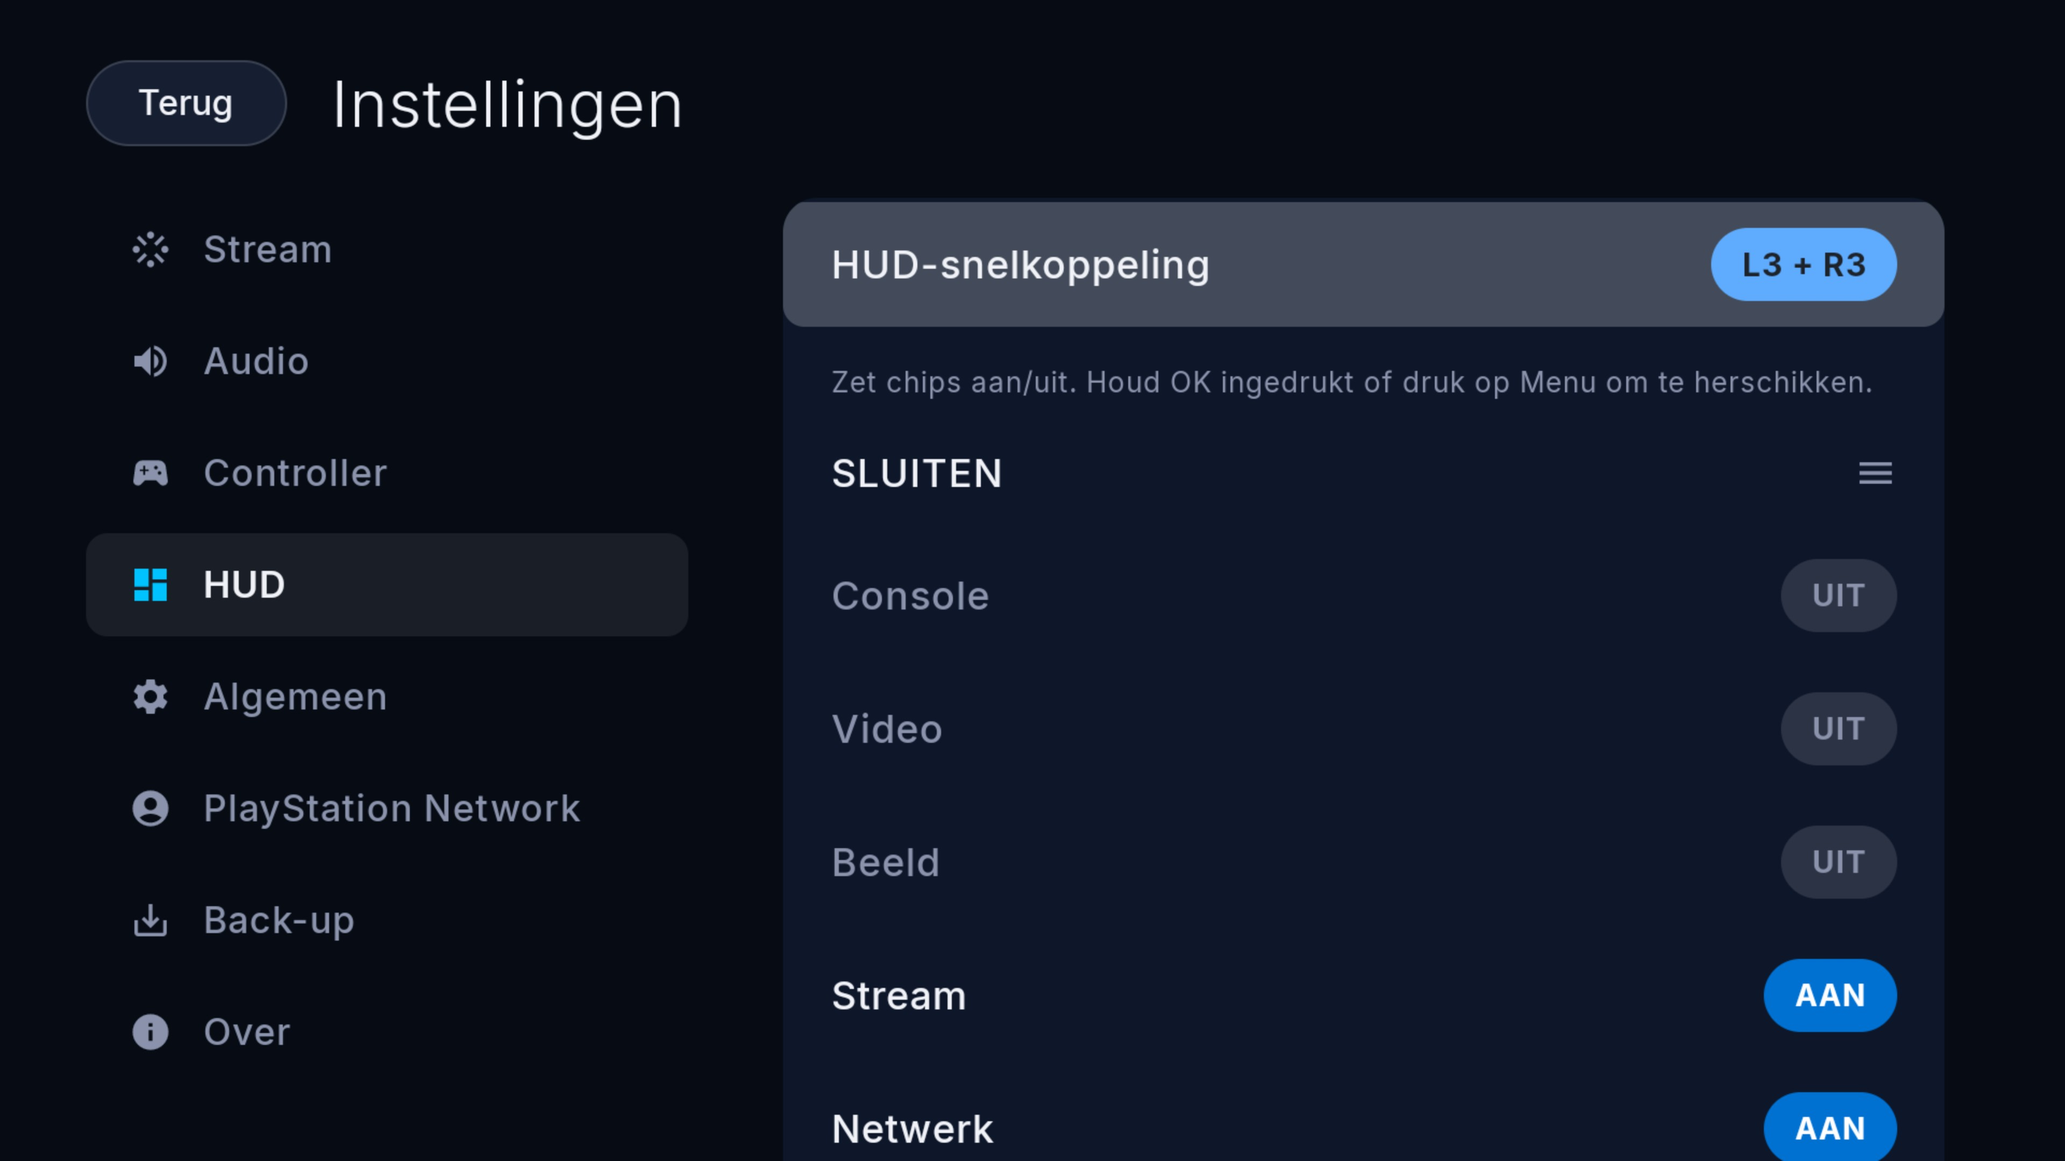
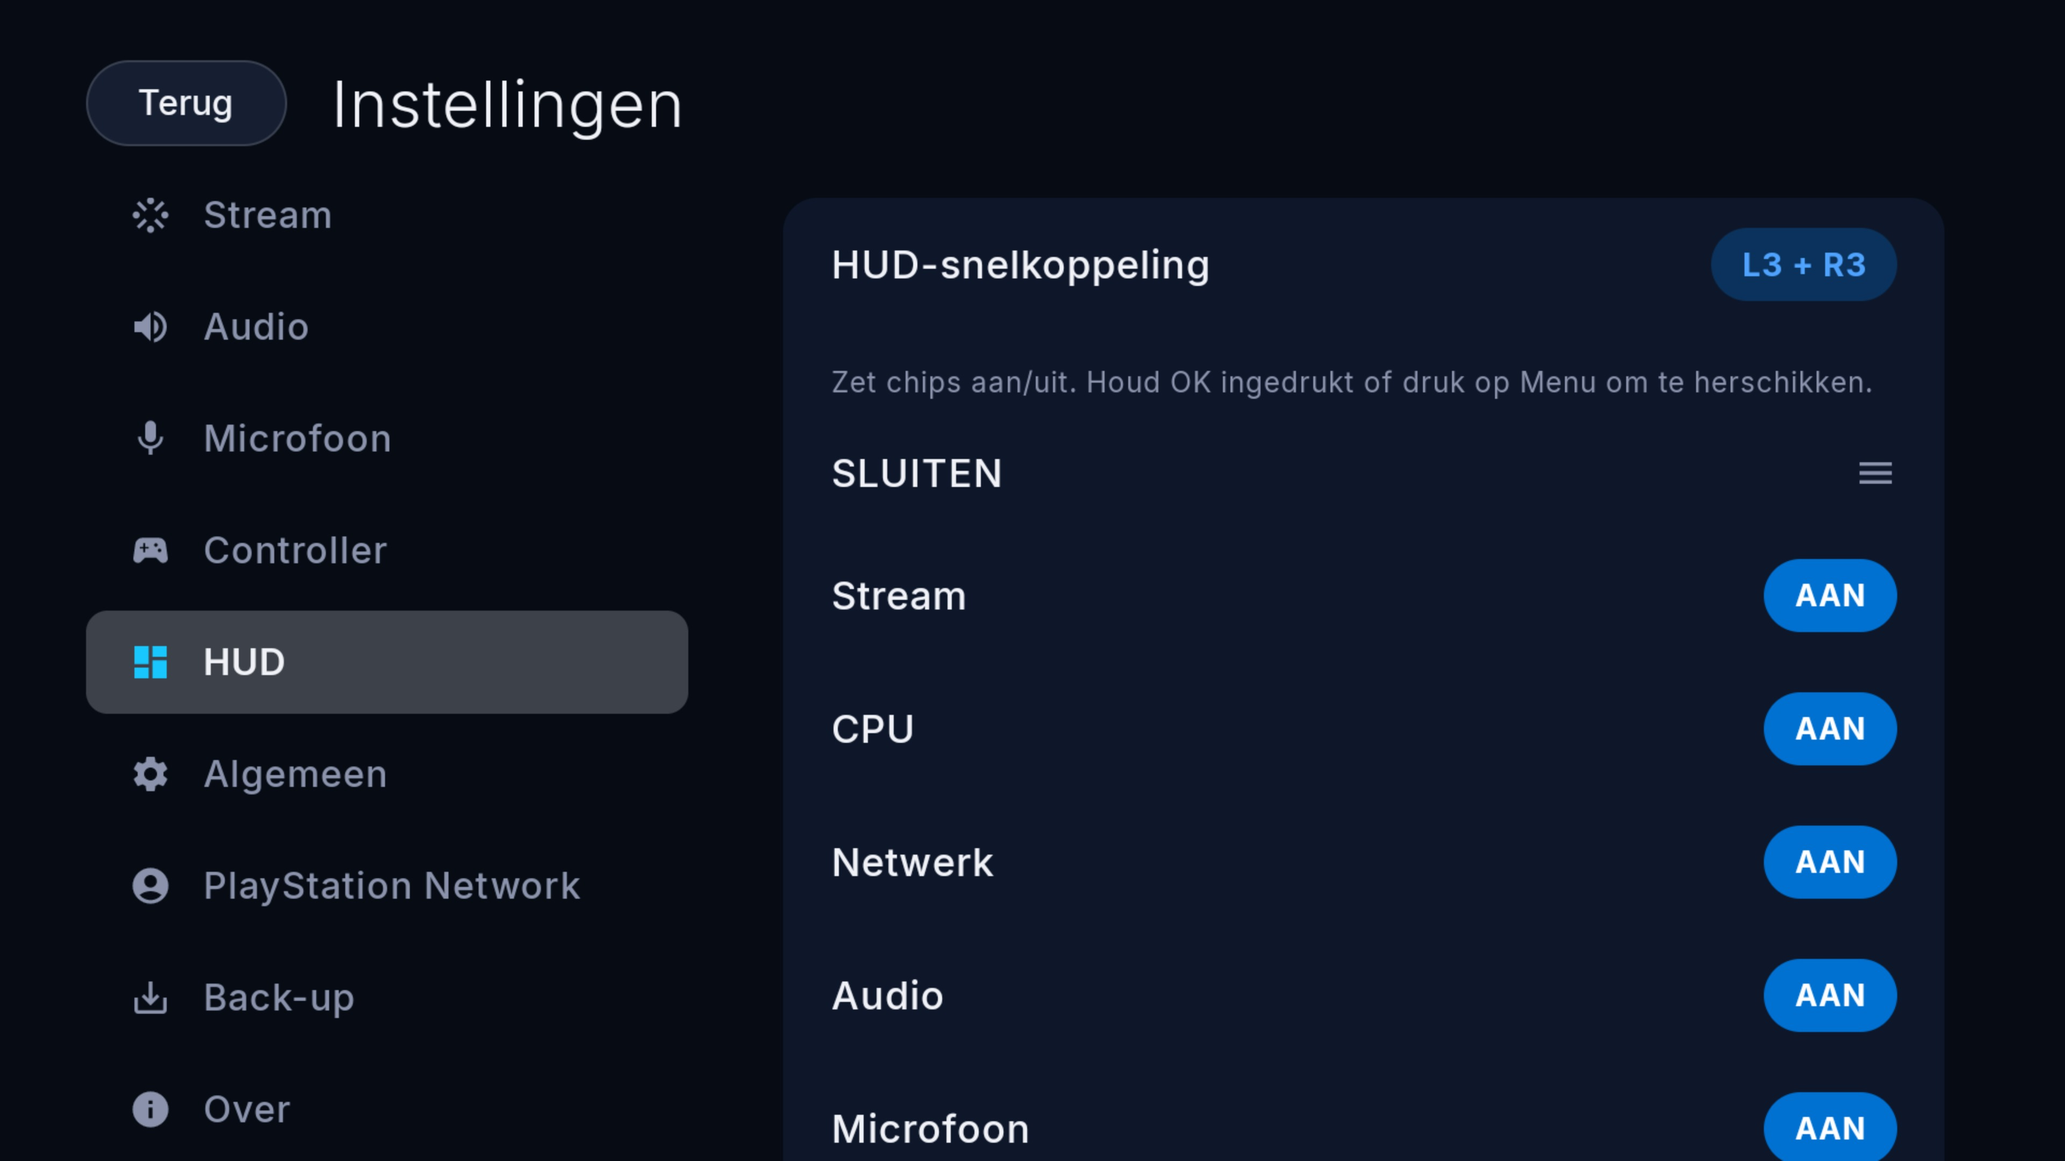
Release 1.19.0-tv: mic encoder settings, mute-toggle fix, CPU HUD core usage, HUD focus
- mic settings: opus encoder complexity (Low/Medium/High/Max) + audio bandwidth (4/6/8 kHz) presets under Settings -> Microphone, plumbed Preferences -> sessionStartMic -> opus_encoder_ctl (chiaki-jni now links opus + the FindOpus shim include dir); bitrate/bit-depth stay protocol-fixed at 32 kbps / 16-bit because audiosender.c hardcodes 40-byte frames
- mic mute: flip the mute flag in the JNI before chiaki_session_toggle_microphone because upstream ctrl.c sends it inverted (0 = unmute on the PS5)
- CPU HUD: main value is now % of total capacity and the sub shows cores used / total cores (via CpuUsageMonitor.coreCount), replacing the old % of one core + cores used
- HUD focus: retry requestFocus() on open until the selected chip's FocusRequester is attached, so D-pad navigation works immediately instead of needing a cross-press first
- strings: mic_complexity/mic_bandwidth + the cpu_sub total arg added to both values and values-nl (Dutch is a full translation)
- docs: README mic/HUD bullets, AGENTS mic tuning + four-places-for-settings + SkipNative/-Pabis gotcha, refreshed settings + stream_hud screenshots; versionCode 19 / 1.19.0-tv

diff --git a/app/src/main/java/com/chiaking/tv/ui/screens/StreamHud.kt b/app/src/main/java/com/chiaking/tv/ui/screens/StreamHud.kt
@@ -50,11 +50,12 @@ import com.chiaking.tv.ui.theme.*
 import com.metallic.chiaki.lib.Codec
 import kotlinx.coroutines.delay
 
-private data class HudStats(val fps: Double, val kbps: Double, val framesLost: Long, val packetLossPct: Double, val rttMs: Long, val cpuAppPct: Double, val cpuCores: Double)
+private data class HudStats(val fps: Double, val kbps: Double, val framesLost: Long, val packetLossPct: Double, val rttMs: Long, val cpuAppPct: Double, val cpuCores: Double, val cpuCoreCount: Int)
 
 private const val HUD_STATS_POLL_MS = 1000L
 private const val HUD_FOCUS_SETTLE_MS = 400L
 private const val HUD_FOCUS_REQUEST_MS = 50L
+private const val HUD_FOCUS_RETRY = 20
 private const val NS_PER_S = 1_000_000_000.0
 private const val BITS_PER_BYTE = 8.0
 private const val BITS_PER_KBIT = 1000.0
@@ -108,8 +109,8 @@ fun StreamHud(
 		{
 			val now = System.nanoTime()
 			val stats = session.getStats()
-			// monitor reports % of total capacity; the chip shows % of one core + cores used
-			val cpuAppPct = if(showCpu) cpuMonitor.getCpuUsage() * cpuMonitor.coreCount else 0.0
+			// monitor reports % of total capacity (0-100); chip shows that % + cores used / total
+			val cpuAppPct = if(showCpu) cpuMonitor.getCpuUsage() else 0.0
 			if(stats != null && lastStats != null && lastTime != 0L)
 			{
 				val dt = (now - lastTime) / NS_PER_S
@@ -122,7 +123,8 @@ fun StreamHud(
 						stats[3] / PACKET_LOSS_PCT_SCALE,
 						stats[4] / MICROS_PER_MS,
 						cpuAppPct,
-						cpuAppPct / 100.0
+						cpuAppPct / 100.0 * cpuMonitor.coreCount,
+						cpuMonitor.coreCount
 					)
 				}
 			}
@@ -138,9 +140,15 @@ fun StreamHud(
 		{
 			delay(HUD_FOCUS_SETTLE_MS)
 			hudFocusIdx = FocusMemory.get("hud").coerceIn(0, lastIdx)
-			delay(HUD_FOCUS_REQUEST_MS)
-			try { hudFocus.requestFocus() } catch(e: Exception)
-			{ android.util.Log.e("StreamHud", "HUD focus request failed", e) }
+			// the focusRequester is only attached to the selected chip after recomposition,
+			// so a single requestFocus can race it and silently fail — leaving no chip focused
+			// until a cross-press grabs focus. Retry until it lands so D-pad works on open.
+			repeat(HUD_FOCUS_RETRY)
+			{
+				try { hudFocus.requestFocus(); return@LaunchedEffect }
+				catch(e: Exception) { delay(HUD_FOCUS_REQUEST_MS) }
+			}
+			android.util.Log.e("StreamHud", "HUD focus request failed after $HUD_FOCUS_RETRY retries")
 		}
 	}
 
@@ -270,7 +278,7 @@ fun StreamHud(
 							i,
 							stringResource(R.string.cpu),
 							hudStats?.let { stringResource(R.string.cpu_value, it.cpuAppPct) } ?: "—",
-							hudStats?.let { stringResource(R.string.cpu_sub, it.cpuCores) } ?: ""
+							hudStats?.let { stringResource(R.string.cpu_sub, it.cpuCores, it.cpuCoreCount) } ?: ""
 						)
 						Preferences.HudItemKind.CLOSE -> chip(
 							i,

diff --git a/app/src/main/java/com/chiaking/tv/common/Preferences.kt b/app/src/main/java/com/chiaking/tv/common/Preferences.kt
@@ -45,6 +45,23 @@ class Preferences(context: Context)
 		SHOULDERS("shoulders", "L1 + R1 + L2 + R2")
 	}
 
+	// opus encoder CPU/quality presets (bitrate + bit depth are fixed by the PS5 protocol)
+	enum class MicComplexity(val value: Int, val title: String)
+	{
+		LOW(3, "Low"),
+		MEDIUM(5, "Medium"),
+		HIGH(8, "High"),
+		MAX(10, "Max")
+	}
+
+	// opus max-bandwidth constants; RESTRICTED_LOWDELAY caps at wideband (8 kHz)
+	enum class MicBandwidth(val opusValue: Int, val title: String)
+	{
+		NARROWBAND(1101, "4 kHz"),
+		MEDIUMBAND(1102, "6 kHz"),
+		WIDEBAND(1103, "8 kHz")
+	}
+
 	enum class DisplayMode(val value: String, val titleRes: Int)
 	{
 		FIT("fit", R.string.display_mode_fit),
@@ -117,6 +134,8 @@ class Preferences(context: Context)
 		const val micAecKey = "mic_aec"
 		const val micNsKey = "mic_ns"
 		const val micAgcKey = "mic_agc"
+		const val micComplexityKey = "mic_complexity"
+		const val micBandwidthKey = "mic_bandwidth"
 
 		val resolutionDefault = Resolution.RES_1080P
 		val fpsDefault = FPS.FPS_60
@@ -206,6 +225,14 @@ class Preferences(context: Context)
 	var micAgc
 		get() = sharedPreferences.getBoolean(micAgcKey, true)
 		set(value) { sharedPreferences.edit().putBoolean(micAgcKey, value).apply() }
+
+	var micComplexity
+		get() = MicComplexity.values().firstOrNull { it.value == sharedPreferences.getInt(micComplexityKey, MicComplexity.MEDIUM.value) } ?: MicComplexity.MEDIUM
+		set(value) { sharedPreferences.edit().putInt(micComplexityKey, value.value).apply() }
+
+	var micBandwidth
+		get() = MicBandwidth.values().firstOrNull { it.opusValue == sharedPreferences.getInt(micBandwidthKey, MicBandwidth.WIDEBAND.opusValue) } ?: MicBandwidth.WIDEBAND
+		set(value) { sharedPreferences.edit().putInt(micBandwidthKey, value.opusValue).apply() }
 
 	var autoConnectEnabled
 		get() = sharedPreferences.getBoolean(autoConnectEnabledKey, false)

diff --git a/app/src/main/java/com/chiaking/tv/ui/screens/SettingsScreen.kt b/app/src/main/java/com/chiaking/tv/ui/screens/SettingsScreen.kt
@@ -114,6 +114,8 @@ fun SettingsScreen(
 	var micAec by remember { mutableStateOf(preferences.micAec) }
 	var micNs by remember { mutableStateOf(preferences.micNs) }
 	var micAgc by remember { mutableStateOf(preferences.micAgc) }
+	var micComplexity by remember { mutableStateOf(preferences.micComplexity) }
+	var micBandwidth by remember { mutableStateOf(preferences.micBandwidth) }
 	val micDevices = remember { AudioDevices.inputDevices(ctx) }
 	var micDeviceIndex by remember { mutableStateOf(
 		micDevices.indexOfFirst { it.first == preferences.micDeviceName }.coerceAtLeast(0)) }
@@ -386,6 +388,26 @@ fun SettingsScreen(
 								micAgc,
 								{ micAgc = it; preferences.micAgc = it },
 								focusRequester = fr(7), onFocus = fb(7)
+							)
+							TvCycleRow(
+								title = stringResource(R.string.mic_complexity),
+								value = micComplexity.title,
+								onNext = {
+									val values = Preferences.MicComplexity.values()
+									micComplexity = values[(micComplexity.ordinal + 1) % values.size]
+									preferences.micComplexity = micComplexity
+								},
+								focusRequester = fr(8), onFocus = fb(8)
+							)
+							TvCycleRow(
+								title = stringResource(R.string.mic_bandwidth),
+								value = micBandwidth.title,
+								onNext = {
+									val values = Preferences.MicBandwidth.values()
+									micBandwidth = values[(micBandwidth.ordinal + 1) % values.size]
+									preferences.micBandwidth = micBandwidth
+								},
+								focusRequester = fr(9), onFocus = fb(9)
 							)
 						}
 					}

diff --git a/app/src/main/java/com/metallic/chiaki/lib/Chiaki.kt b/app/src/main/java/com/metallic/chiaki/lib/Chiaki.kt
@@ -101,7 +101,7 @@ private class ChiakiNative
 		@JvmStatic external fun sessionRestartAudio(ptr: Long)
 		@JvmStatic external fun sessionGotoBed(ptr: Long): Int
 		@JvmStatic external fun sessionRequestIDR(ptr: Long): Int
-		@JvmStatic external fun sessionStartMic(ptr: Long, muted: Boolean): Int
+		@JvmStatic external fun sessionStartMic(ptr: Long, muted: Boolean, complexity: Int, bandwidth: Int): Int
 		@JvmStatic external fun sessionFeedMicFrame(ptr: Long, pcm: ShortArray)
 		@JvmStatic external fun sessionToggleMicrophone(ptr: Long, muted: Boolean): Int
 		@JvmStatic external fun sessionGetStats(ptr: Long, out: LongArray)
@@ -494,9 +494,9 @@ class Session(connectInfo: ConnectInfo, logFile: String?, logVerbose: Boolean)
 		return ChiakiNative.sessionRequestIDR(nativePtr)
 	}
 
-	fun startMic(muted: Boolean): Int
+	fun startMic(muted: Boolean, complexity: Int = 5, bandwidth: Int = 1103): Int
 	{
-		return ChiakiNative.sessionStartMic(nativePtr, muted)
+		return ChiakiNative.sessionStartMic(nativePtr, muted, complexity, bandwidth)
 	}
 
 	fun feedMicFrame(pcm: ShortArray)

diff --git a/app/src/main/java/com/chiaking/tv/session/StreamSession.kt b/app/src/main/java/com/chiaking/tv/session/StreamSession.kt
@@ -101,7 +101,7 @@ class StreamSession(val connectInfo: ConnectInfo, val logManager: LogManager, va
 		if(capture.start())
 		{
 			micCapture = capture
-			session.startMic(_micMuted.value)
+			session.startMic(_micMuted.value, input.preferences.micComplexity.value, input.preferences.micBandwidth.opusValue)
 			_micActive.value = true
 		}
 	}

diff --git a/native/jni/chiaki-jni.c b/native/jni/chiaki-jni.c
@@ -11,6 +11,9 @@
 #include <chiaki/regist.h>
 #include <chiaki/remote/holepunch.h>
 #include <chiaki/opusencoder.h>
+#if CHIAKI_LIB_ENABLE_OPUS
+#include <opus/opus.h>
+#endif
 
 #include <string.h>
 #include <stdlib.h>
@@ -566,7 +569,7 @@ JNIEXPORT jint JNICALL JNI_FCN(sessionRequestIDR)(JNIEnv *env, jobject obj, jlon
 	return chiaki_session_request_idr(&session->session);
 }
 
-JNIEXPORT jint JNICALL JNI_FCN(sessionStartMic)(JNIEnv *env, jobject obj, jlong ptr, jboolean muted)
+JNIEXPORT jint JNICALL JNI_FCN(sessionStartMic)(JNIEnv *env, jobject obj, jlong ptr, jboolean muted, jint complexity, jint bandwidth)
 {
 	AndroidChiakiSession *session = (AndroidChiakiSession *)ptr;
 #if CHIAKI_LIB_ENABLE_OPUS
@@ -581,6 +584,16 @@ JNIEXPORT jint JNICALL JNI_FCN(sessionStartMic)(JNIEnv *env, jobject obj, jlong 
 			CHIAKI_LOGE(session->log, "Failed to init mic audio sender");
 			return CHIAKI_ERR_UNKNOWN;
 		}
+		// opus defaults to complexity 10 + auto signal; for a voice channel, biasing to
+		// voice and tuning complexity/bandwidth cuts CPU with no protocol change
+		// (still 48 kHz stereo CBR 40-byte frames). Values come from the mic settings.
+		OpusEncoder *mic_enc = session->opus_encoder.opus_encoder;
+		if(mic_enc)
+		{
+			opus_encoder_ctl(mic_enc, OPUS_SET_SIGNAL(OPUS_SIGNAL_VOICE));
+			opus_encoder_ctl(mic_enc, OPUS_SET_COMPLEXITY(complexity));
+			opus_encoder_ctl(mic_enc, OPUS_SET_MAX_BANDWIDTH(bandwidth));
+		}
 		session->mic_encoder_initialized = true;
 	}
 	if(!session->mic_connected)
@@ -593,12 +606,16 @@ JNIEXPORT jint JNICALL JNI_FCN(sessionStartMic)(JNIEnv *env, jobject obj, jlong 
 		}
 		session->mic_connected = true;
 	}
-	ChiakiErrorCode err = chiaki_session_toggle_microphone(&session->session, muted);
+	// ctrl.c sends toggle[2]=0 for muted=true, but the PS5 treats 0 as UNMUTE (its log
+	// string is inverted too), so flip the flag here until upstream is corrected
+	ChiakiErrorCode err = chiaki_session_toggle_microphone(&session->session, !muted);
 	if(err != CHIAKI_ERR_SUCCESS)
 		CHIAKI_LOGE(session->log, "Failed to set initial mic mute state: %s", chiaki_error_string(err));
 	return err;
 #else
 	(void)muted;
+	(void)complexity;
+	(void)bandwidth;
 	return CHIAKI_ERR_UNKNOWN;
 #endif
 }
@@ -621,7 +638,8 @@ JNIEXPORT void JNICALL JNI_FCN(sessionFeedMicFrame)(JNIEnv *env, jobject obj, jl
 JNIEXPORT jint JNICALL JNI_FCN(sessionToggleMicrophone)(JNIEnv *env, jobject obj, jlong ptr, jboolean muted)
 {
 	AndroidChiakiSession *session = (AndroidChiakiSession *)ptr;
-	return chiaki_session_toggle_microphone(&session->session, muted);
+	// see sessionStartMic: upstream ctrl.c has the mute flag inverted
+	return chiaki_session_toggle_microphone(&session->session, !muted);
 }
 
 JNIEXPORT void JNICALL JNI_FCN(sessionGetStats)(JNIEnv *env, jobject obj, jlong ptr, jlongArray out)

diff --git a/AGENTS.md b/AGENTS.md
@@ -70,12 +70,19 @@ Never run `gradlew` directly on the host — no local Android SDK/NDK is set up.
   video **stats counters** (frames/bytes/lost for the HUD), `CHIAKI_EVENT_MOTION_RESET`
   forwarding, the `sessionRequestIDR` / `sessionRestartAudio` JNI functions, and the
   `enableIDROnFECFailure` connect-info field + `CHIAKI_EVENT_VIDEO_FEC_FAILURE` forwarding
-  (`idr_on_fec_failure` pref, default on), and the mic sender (`sessionStartMic` /
-  `sessionFeedMicFrame` / `sessionToggleMicrophone` on a per-session `ChiakiOpusEncoder`,
-  48 kHz stereo 480-sample frames; needs `CHIAKI_LIB_ENABLE_OPUS=ON`, which builds the
-  `native/third-party/opus` submodule satisfied via the `native/cmake/FindOpus.cmake` shim).
-  Kotlin mic side: `session/MicCapture.kt` (AudioRecord VOICE_COMMUNICATION + platform
-  AEC/NS/AGC), owned by `StreamSession` — starts on ConnectedEvent, stops on shutdown/pause.
+   (`idr_on_fec_failure` pref, default on), and the mic sender (`sessionStartMic` /
+   `sessionFeedMicFrame` / `sessionToggleMicrophone` on a per-session `ChiakiOpusEncoder`,
+   48 kHz stereo 480-sample frames; needs `CHIAKI_LIB_ENABLE_OPUS=ON`, which builds the
+   `native/third-party/opus` submodule satisfied via the `native/cmake/FindOpus.cmake` shim).
+   `sessionStartMic` also takes `complexity` + `bandwidth` (from the mic settings) and applies
+   them with `opus_encoder_ctl` on the raw `OpusEncoder*` (the `chiaki-jni` target links `opus`
+   + the shim include dir directly); bitrate/bit-depth stay fixed at 32 kbps / 16-bit because
+   `audiosender.c` hardcodes 40-byte frames. Upstream `ctrl.c` sends the mic-mute toggle
+   **inverted** (`0` = unmute on the PS5), so the JNI flips the flag before
+   `chiaki_session_toggle_microphone`.
+   Kotlin mic side: `session/MicCapture.kt` (AudioRecord VOICE_COMMUNICATION + platform
+   AEC/NS/AGC + a ~2 s silence probe that aborts on a phantom mic recording only zeros),
+   owned by `StreamSession` — starts on ConnectedEvent, stops on shutdown/pause.
   **Keep-alive rework** in `video-decoder.c` (required by StreamManager — do not revert):
   `set_surface(null)` no longer kills the codec (upstream did, and double-locked the
   non-recursive `codec_mutex` → ANR); it sets `surface_valid=false` +
@@ -112,9 +119,11 @@ Never run `gradlew` directly on the host — no local Android SDK/NDK is set up.
   It is NOT kept in sync automatically — see `docs/UPSTREAM_SYNC.md` for the file-by-file
   mapping and the list of intentional divergences (StateFlow instead of LiveData,
   D-pad-as-controller input, no touch controls, package rename).
-- New settings need three places: `common/Preferences.kt` (key + property),
-  `ui/screens/SettingsScreen.kt` (row), and wiring into `Preferences.videoProfile`
-  or the session if they affect streaming.
+- New settings need four places: `common/Preferences.kt` (key + property),
+  `ui/screens/SettingsScreen.kt` (row), the string in **both** `res/values/strings.xml`
+  and `res/values-nl/strings.xml` (Dutch is a full translation — a missing key silently
+  falls back to English), and wiring into `Preferences.videoProfile` or the session if
+  they affect streaming.
 - **UI style**: PlayStation-inspired. Tokens in `ui/theme/Theme.kt` (colors, `CardShape`/
   `SelectionShape`/`ButtonShape`) + `Type.kt` (Inter `PsFontFamily` applied to all Material
   typography). Home = thin top bar (clock + `PsIconButton`s) over a radial `PsBlue` glow,
@@ -135,6 +144,10 @@ Never run `gradlew` directly on the host — no local Android SDK/NDK is set up.
   `external/chiaki-ng/android/app/build.gradle` when bumping upstream.
 - `app/.cxx/` and `app/build/` caches persist across runs on the mounted volume; delete them
   if CMake configure behaves oddly after a submodule bump.
+- `build.ps1 -SkipNative` hardcodes the default ABIs (`arm64-v8a,armeabi-v7a`) in its `-x`
+  exclusions, so it **fails** when combined with `-Pabis=arm64-v8a` (task-not-found for the
+  v7a CMake task). For an arm64-only build just run `.\build.ps1 "assembleDebug -Pabis=arm64-v8a"`
+  (native tasks stay up-to-date when `native/` is unchanged).
 - Native codegen needs `protoc` + `python3` + `protobuf` pip package + `perl` + `make` — all in the Docker image only.
 - `chiaki_session_stop` must **never** be called twice (SIGABRT in `chiaki_mutex_lock` on the
   destroyed mutex). `StreamSession.shutdown` is guarded by a `stopped` flag (reset in `resume()`),
@@ -160,7 +173,10 @@ Never run `gradlew` directly on the host — no local Android SDK/NDK is set up.
   The scroll edge arrows key off `hudFocusIdx` bounds (not `hudScroll.value`) because auto-scroll
   to a remembered item does not always reach the scroll edge. The open/close combo is configurable (`menu_shortcut` pref:
   L3+R3 / Select+Start / L1+R1+L2+R2) via `StreamInput.onHudComboKeyEvent`, which clears the
-  combo's controller buttons/triggers/touch so the game never sees them.
+  combo's controller buttons/triggers/touch so the game never sees them. On open,
+  `requestFocus()` is retried in a loop because the `FocusRequester` is only attached to the
+  selected chip after recomposition — a single call races it and leaves no chip focused
+  (D-pad dead until a cross-press grabs focus).
 - Wake-on-connect (`MainActivity.wakeupAndConnect`) sends the wakeup packet, polls discovery for
   READY ≤25 s, then auto-starts the stream; used by the home-screen card, startup auto-connect
   (`auto_connect_enabled`/`auto_connect_mac` prefs) and the TV-channel deep link

diff --git a/README.md b/README.md
@@ -49,13 +49,16 @@ home with ambient glow and pill buttons, two-pane settings) and full D-pad/gamep
   audio buffer size (Auto or 10–100 ms in 10 ms steps, like the Qt app)
 - **Microphone** — stream your mic to the console for party chat / in-game voice
   (*Settings → Microphone*): enable (with permission prompt), start-unmuted, input-device
-  picker (built-in, USB or Bluetooth headset mics), gain, and platform echo cancellation /
-  noise suppression / auto-gain. The console receives the mic audio itself — not the headset
-  as a device; game audio keeps playing on your normal output as usual
+  picker (built-in, USB or Bluetooth headset mics), gain, platform echo cancellation /
+  noise suppression / auto-gain, and opus encoder tuning (encoder **complexity** + audio
+  **bandwidth** presets to trade CPU for voice quality). The mic is skipped automatically
+  when the device has no real capture source (some TVs report a phantom mic that only
+  records silence). The console receives the mic audio itself — not the headset as a
+  device; game audio keeps playing on your normal output as usual
 - **In-stream HUD** — press **L3 + R3** (configurable: Select + Start or L1+R1+L2+R2 via
   *Settings → HUD → HUD Shortcut*) while streaming to toggle an interactive bar with live
-  FPS, measured bitrate, packet loss %, ping, lost frames, app CPU usage (of one core +
-  cores used) and the current video/audio config. Which chips appear and in what order is
+  FPS, measured bitrate, packet loss %, ping, lost frames, app CPU usage (% of total
+  capacity + cores used / total cores) and the current video/audio config. Which chips appear and in what order is
   fully editable (*Settings → HUD → HUD Items*): **cross** toggles a chip on/off, **hold cross**
   (or **Menu**) enters move mode and **up/down** reorders; the **✕** chip is always shown and
   can only be reordered.
